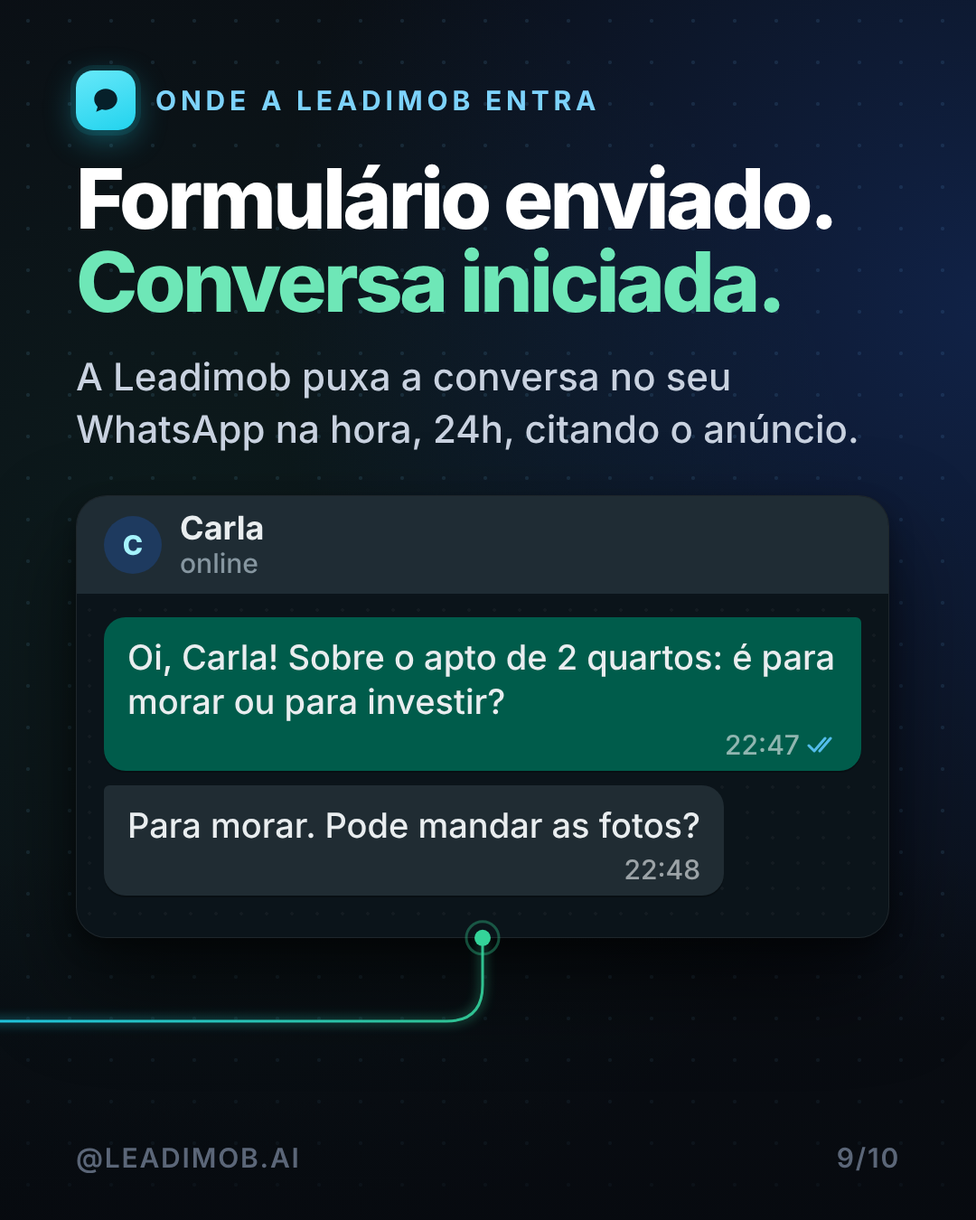
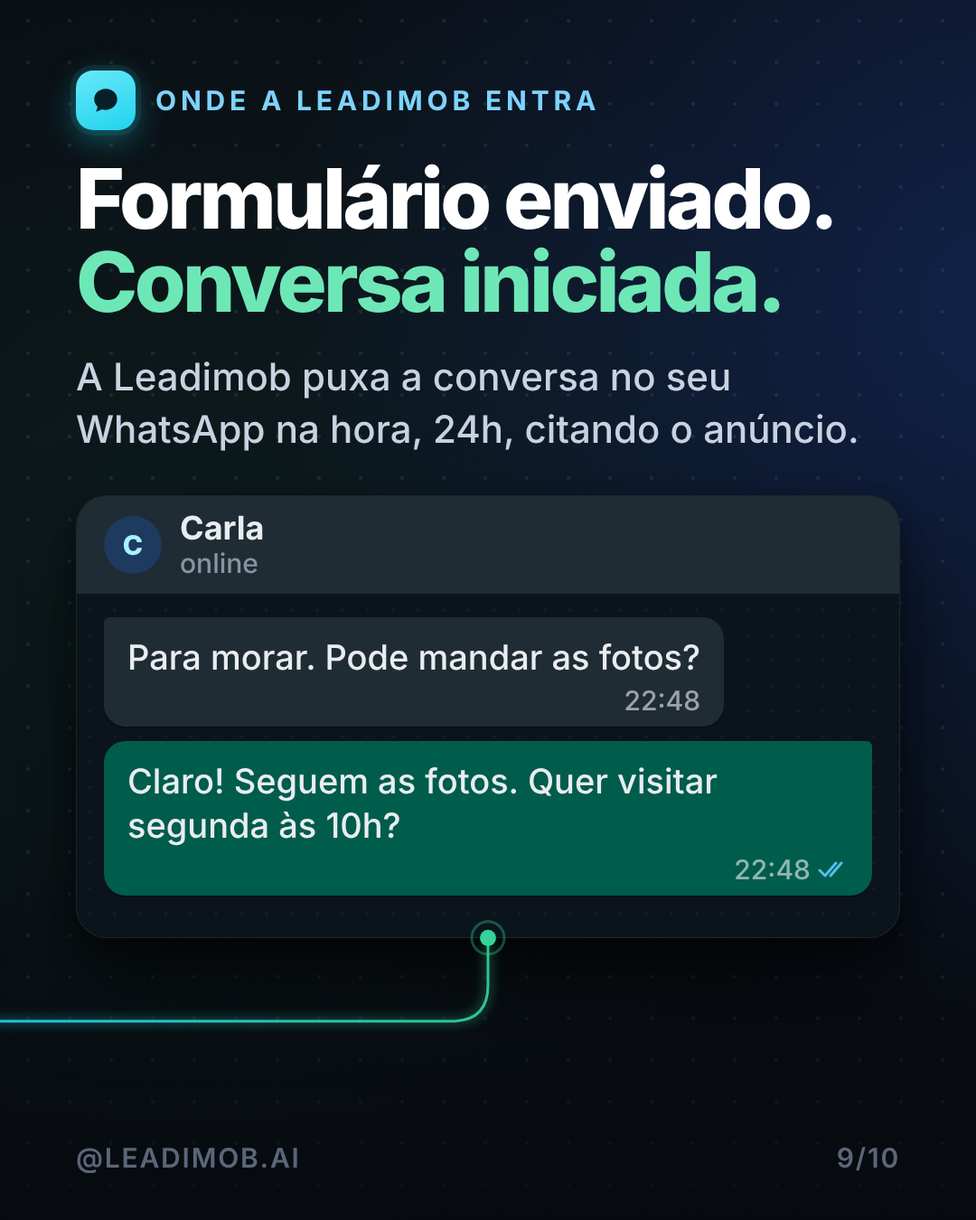
10/10: carrossel rodada 3 (em crítica, sem aprovação)
Claude-Session: https://claude.ai/code/session_016a8cwUDTswJAyhXi9pdNNX

Changed region(s): [[0.0917, 0.4978, 0.9167, 0.84], [0.8861, 0.4356, 0.9167, 0.4978]]

diff --git a/instagram/2026-10-10/src/c1-index.html b/instagram/2026-10-10/src/c1-index.html
@@ -58,26 +58,34 @@ body{background:#0A0E14;width:10800px;height:1350px;overflow:hidden;font-family:
 .art{margin-top:60px}
 .bt{font-size:30px}
 /* formulário do anúncio */
-.form{width:600px;padding:34px 36px 36px}
+.form{width:912px;padding:34px 36px 36px}
 .form .lab{margin-bottom:26px}
-.fld{border:2px solid rgba(255,255,255,.12);background:rgba(255,255,255,.03);border-radius:18px;padding:16px 24px;margin-bottom:16px;display:flex;justify-content:space-between;align-items:center}
+.fld{border:2px solid rgba(255,255,255,.12);background:rgba(255,255,255,.03);border-radius:18px;padding:22px 26px;margin-bottom:16px;display:flex;justify-content:space-between;align-items:center}
 .fld b{font:600 30px/1 IN;color:#7C8799;letter-spacing:.02em}
-.fld span{font:600 34px/1 IN;color:#E2E8F0}
-.btn{margin-top:22px;height:84px;border-radius:18px;background:#2563EB;display:flex;align-items:center;justify-content:center;gap:14px;font:700 36px/1 IN;color:#fff;box-shadow:0 14px 34px rgba(37,99,235,.45)}
+.fld span{font:600 40px/1 IN;color:#E2E8F0}
+.btn{margin-top:22px;height:96px;border-radius:18px;background:#2563EB;display:flex;align-items:center;justify-content:center;gap:14px;font:700 36px/1 IN;color:#fff;box-shadow:0 14px 34px rgba(37,99,235,.45)}
+/* progresso da checklist (slides 4–8) */
+.prog{margin-left:auto;display:flex;gap:10px}
+.prog i{width:30px;height:30px;border-radius:9px;border:2.5px solid rgba(125,211,252,.28);display:flex;align-items:center;justify-content:center}
+.prog i.ok{background:rgba(34,211,238,.22);border-color:rgba(34,211,238,.6)}
+.prog i.on{background:#22D3EE;border-color:#22D3EE;box-shadow:0 0 16px rgba(34,211,238,.6)}
+.wd{display:inline-flex;align-items:center;gap:16px;padding:24px 32px;border-radius:24px;font:700 42px/1 IN;color:#E2E8F0}
+.wd s{text-decoration:none;width:50px;height:50px;border-radius:12px;border:2.5px solid rgba(125,211,252,.55);display:flex;align-items:center;justify-content:center;font:800 30px/1 IN;color:#7DD3FC}
+.strk{text-decoration:line-through;text-decoration-thickness:3px;text-decoration-color:#8794A8;color:#8794A8}
 /* nó de checagem na linha */
-.gate{position:absolute;top:1107px;transform:translateX(-50%);display:flex;flex-direction:column;align-items:center;gap:14px;z-index:6}
-.gate i{width:48px;height:48px;border-radius:14px;background:#0A0E14;border:3px solid #22D3EE;box-shadow:0 0 24px rgba(34,211,238,.45);display:flex;align-items:center;justify-content:center}
+.gate{position:absolute;top:1104px;transform:translateX(-50%);display:flex;flex-direction:column;align-items:center;gap:14px;z-index:6}
+.gate i{width:52px;height:52px;border-radius:15px;background:#22D3EE;border:3px solid #22D3EE;box-shadow:0 0 0 7px rgba(34,211,238,.12),0 0 26px rgba(34,211,238,.55);display:flex;align-items:center;justify-content:center}
 .gate span{font:700 30px/1 IN;letter-spacing:.14em;color:#7DD3FC}
 .stop{position:absolute;top:1115px;transform:translateX(-50%);z-index:6;width:32px;height:32px;border-radius:50%;background:#0A0E14;border:4px solid #F59E0B;box-shadow:0 0 18px rgba(245,158,11,.4)}
 /* central de leads (dor) */
-.tbl{width:860px;padding:30px 34px 14px}
+.tbl{width:912px;padding:30px 34px 14px}
 .row{display:flex;align-items:center;justify-content:space-between;padding:22px 0;border-top:1px solid rgba(255,255,255,.08);font:600 36px/1 IN;color:#C9D2E0}
 .row small{font:500 30px/1 IN;color:#7C8799;margin-left:18px}
 /* notificação */
-.ntf{width:880px;padding:30px 34px;display:flex;gap:28px;align-items:center}
+.ntf{width:912px;padding:30px 34px;display:flex;gap:28px;align-items:center}
 .ico{width:96px;height:96px;border-radius:24px;background:linear-gradient(160deg,#67E8F9,#22D3EE);display:flex;align-items:center;justify-content:center;flex:none;box-shadow:0 10px 30px rgba(34,211,238,.3)}
 /* bolha com citação do anúncio */
-.wa.one{padding:34px 34px 38px;width:900px}
+.wa.one{padding:34px 34px 38px;width:912px}
 .wa.one .bub{font-size:42px;line-height:1.28;padding:16px 18px 16px;max-width:820px}
 .quote{border-left:6px solid #22D3EE;background:rgba(0,0,0,.22);border-radius:12px;padding:14px 20px;margin-bottom:16px;display:flex;align-items:center;gap:18px}
 .quote b{display:block;font:700 30px/1.1 IN;color:#7DD3FC}
@@ -85,7 +93,7 @@ body{background:#0A0E14;width:10800px;height:1350px;overflow:hidden;font-family:
 .thumb{width:84px;height:84px;border-radius:10px;background:url(property.jpg) center/cover;flex:none}
 .msgt{padding:0 10px}
 /* régua do dia */
-.day24{width:900px;padding:40px 40px 34px}
+.day24{width:912px;padding:40px 40px 34px}
 .bar{position:relative;height:26px;border-radius:13px;background:rgba(255,255,255,.07);margin:120px 0 22px}
 .biz{position:absolute;top:0;bottom:0;border-radius:13px;background:rgba(125,211,252,.22);border:2px solid rgba(125,211,252,.35)}
 .tks{position:relative;height:30px;font:600 30px/1 IN;color:#7C8799}
@@ -95,24 +103,24 @@ body{background:#0A0E14;width:10800px;height:1350px;overflow:hidden;font-family:
 .pin i{width:3px;height:30px;background:#22D3EE}
 .pin u{width:30px;height:30px;border-radius:50%;background:#22D3EE;box-shadow:0 0 0 6px rgba(34,211,238,.2),0 0 22px rgba(34,211,238,.6);margin-top:-2px}
 /* perguntas */
-.qs{display:grid;grid-template-columns:1fr 1fr;gap:20px;width:900px}
+.qs{display:grid;grid-template-columns:1fr 1fr;gap:20px;width:912px}
 .q{display:flex;align-items:center;gap:16px;padding:28px 28px;border-radius:24px;font:600 36px/1.1 IN;color:#E2E8F0}
 .q svg{flex:none}
 .after{margin-top:26px;display:flex;align-items:center;gap:14px;font:600 32px/1 IN;color:#7C8799}
 /* ficha do lead */
-.crm{width:860px;padding:34px 38px 30px}
+.crm{width:912px;padding:34px 38px 30px}
 .crm .hd{display:flex;align-items:center;gap:22px;padding-bottom:26px}
 .av{width:76px;height:76px;border-radius:50%;background:#1E3A5F;display:flex;align-items:center;justify-content:center;font:800 34px/1 IN;color:#A5F3FC;flex:none}
 .kv{display:flex;justify-content:space-between;align-items:center;padding:24px 0;border-top:1px solid rgba(255,255,255,.08)}
 .kv b{font:600 30px/1 IN;letter-spacing:.12em;text-transform:uppercase;color:#7C8799}
 .kv span{font:700 38px/1 IN;color:#fff}
 /* checklist resumo */
-.cl{width:900px;padding:22px 38px}
+.cl{width:912px;padding:22px 38px}
 .ci{display:flex;align-items:center;gap:24px;padding:17px 0;border-top:1px solid rgba(255,255,255,.08);font:600 36px/1.15 IN;color:#E2E8F0}
 .ci:first-child{border-top:0}
 .ci .n{width:50px;height:50px;border-radius:14px;border:3px solid rgba(125,211,252,.55);display:flex;align-items:center;justify-content:center;font:800 30px/1 IN;color:#7DD3FC;flex:none}
 /* chat final */
-.chat{width:900px;padding:0 0 30px}
+.chat{width:912px;padding:0 0 30px}
 .chat .top{display:flex;align-items:center;gap:20px;padding:16px 30px;background:#1F2C34;margin-bottom:26px}
 .chat .top b{display:block;font:700 36px/1.1 IN;color:#E9EDEF}
 .chat .top em{display:block;font:500 30px/1.2 IN;color:#8696A0;font-style:normal}
@@ -128,32 +136,32 @@ body{background:#0A0E14;width:10800px;height:1350px;overflow:hidden;font-family:
 <div class="vig"></div>
 <svg id="fio" class="abs" width="10800" height="1350" style="left:0;top:0;z-index:6;pointer-events:none"></svg>
 
-<!-- 1 capa -->
+<!-- 1 capa: o formulário da Carla em cima, título embaixo -->
 <div class="sl" style="left:0;justify-content:flex-start;padding-top:118px">
  <div style="display:flex;justify-content:space-between;align-items:center">
-  <div class="ttl" style="margin:0"><div class="num"><svg width="32" height="32" viewBox="0 0 24 24" fill="none" stroke="#06202A" stroke-width="2.6" stroke-linecap="round" stroke-linejoin="round"><path d="M4 6h16M7 12h10M10 18h4"/></svg></div><div class="kick">Método</div></div>
+  <div class="ttl" style="margin:0"><div class="num"><svg width="32" height="32" viewBox="0 0 24 24" fill="none" stroke="#06202A" stroke-width="2.6" stroke-linecap="round" stroke-linejoin="round"><path d="M4 6h16M7 12h10M10 18h4"/></svg></div><div class="kick">Teste</div></div>
   <span class="chip cy"><svg width="24" height="28" viewBox="0 0 20 24"><path d="M3 2h14v20l-7-5.500L3 22z" fill="#A5F3FC"/></svg>Salve este post</span>
  </div>
- <div class="h1" style="margin-top:64px;font-size:100px;line-height:1.0">O lead preencheu.<br>Alguém<br><span class="hl">respondeu?</span></div>
- <div class="p" style="margin-top:34px;font-size:42px;font-weight:500;color:#E2E8F0">5 checagens para ver onde a sua captação de leads trava.</div>
- <div class="card form" id="a-form" style="margin-top:52px">
+ <div class="card form" id="a-form" style="margin-top:56px">
   <div class="lab">Formulário do anúncio</div>
   <div class="fld"><b>Nome</b><span>Carla</span></div>
   <div class="btn">Enviar <svg width="30" height="30" viewBox="0 0 24 24"><path d="M3 12 L21 3 L14 21 L11 13 Z" fill="#fff"/></svg></div>
  </div>
+ <div class="h1" style="margin-top:64px;font-size:104px;line-height:1.0">O lead preencheu.<br>Alguém <span style="color:transparent;-webkit-text-stroke:3px #7DD3FC">respondeu?</span></div>
+ <div class="p" style="margin-top:32px;font-size:42px;color:#E2E8F0">5 checagens para ver onde o lead do formulário trava.</div>
  <div class="foot"><span>@LEADIMOB.AI</span><span style="color:#7DD3FC">ARRASTE →</span></div></div>
 
 <!-- 2 problema: caminho travado (formulário → planilha) -->
-<div class="sl" style="left:1080px">
+<div class="sl" style="left:1080px;padding-top:236px">
  <div class="ttl"><div class="num">!</div><div class="kick">O problema</div></div>
  <div class="h2">O lead preencheu.<br><span style="color:#8794A8">E parou na planilha.</span></div>
  <div class="p">Ninguém foi avisado. Ninguém escreveu.</div>
  <div class="art" style="display:flex;align-items:center;width:912px">
-  <div class="card" style="width:270px;padding:30px 26px;text-align:center">
+  <div class="card" style="width:300px;padding:30px 26px;text-align:center">
    <svg width="54" height="54" viewBox="0 0 24 24" fill="none" stroke="#7DD3FC" stroke-width="1.8" stroke-linejoin="round" stroke-linecap="round"><rect x="5" y="3" width="14" height="18" rx="2.5"/><path d="M8.500 8h7M8.500 12h7M8.500 16h4"/></svg>
-   <div style="font:700 32px/1.1 IN;margin-top:14px">Formulário</div><div style="font:500 30px/1.2 IN;color:#7C8799;margin-top:8px">sáb. 22:47</div></div>
+   <div style="font:700 34px/1.1 IN;margin-top:14px">Formulário</div><div style="font:500 30px/1.2 IN;color:#7C8799;margin-top:8px">sáb. 22:47</div></div>
   <div style="flex:1;height:3px;background:#22D3EE;opacity:.7;position:relative"><span style="position:absolute;right:-2px;top:-9px;border-left:16px solid #22D3EE;border-top:10px solid transparent;border-bottom:10px solid transparent"></span></div>
-  <div class="card" style="width:480px;padding:26px 28px 14px">
+  <div class="card" style="width:500px;padding:26px 28px 14px">
    <div class="lab" style="margin-bottom:14px"><svg width="30" height="30" viewBox="0 0 24 24" fill="none" stroke="#7C8799" stroke-width="2"><rect x="3" y="4" width="18" height="16" rx="2"/><path d="M3 10h18M9 4v16"/></svg>Planilha</div>
    <div class="row"><span>Carla</span><span class="chip nt" style="font-size:30px;padding:12px 20px">Sem contato</span></div>
   </div>
@@ -165,43 +173,40 @@ body{background:#0A0E14;width:10800px;height:1350px;overflow:hidden;font-family:
 <div class="sl" style="left:2160px">
  <div class="ttl"><div class="num"><svg width="32" height="32" viewBox="0 0 24 24" fill="none" stroke="#06202A" stroke-width="2.6" stroke-linecap="round" stroke-linejoin="round"><path d="M4 6h16M7 12h10M10 18h4"/></svg></div><div class="kick">O teste</div></div>
  <div class="h2">Preencha o seu próprio <span class="hl">formulário</span>.</div>
- <div class="p">Depois, siga as 5 checagens.</div>
- <div class="card cl art">
-  <div class="ci"><span class="n">1</span>Chega a alguém na hora?</div>
-  <div class="ci"><span class="n">2</span>WhatsApp citando o anúncio?</div>
-  <div class="ci"><span class="n">3</span>Resposta fora do horário?</div>
-  <div class="ci"><span class="n">4</span>Perguntas antes dos imóveis?</div>
-  <div class="ci"><span class="n">5</span>Dono e próximo passo?</div>
+ <div class="p">Depois, confira as 5 checagens.</div>
+ <div class="art" style="width:912px;display:flex;flex-wrap:wrap;gap:18px">
+  <span class="wd nt"><s>1</s>Aviso</span><span class="wd nt"><s>2</s>Anúncio</span><span class="wd nt"><s>3</s>22h</span><span class="wd nt"><s>4</s>Perguntas</span><span class="wd nt"><s>5</s>Dono</span>
  </div>
  <div class="foot"><span>@LEADIMOB.AI</span><span>3/10</span></div></div>
 
 <!-- 4 checagem 1 -->
-<div class="sl" style="left:3240px;padding-top:216px"><div class="ghost">01</div>
- <div class="ttl"><div class="num">01</div><div class="kick">Checagem 1 · entrada</div></div>
+<div class="sl" style="left:3240px;padding-top:216px">
+ <div class="ttl" style="width:912px"><div class="num">01</div><div class="kick">Checagem 1 · aviso</div><div class="prog"><i class="on"><svg width="18" height="18" viewBox="0 0 24 24"><path d="M5 12.500l4.500 4.500L19 7" stroke="#06202A" stroke-width="4" fill="none" stroke-linecap="round" stroke-linejoin="round"/></svg></i><i></i><i></i><i></i><i></i></div></div>
  <div class="h2">O lead chega a <span class="hl">alguém</span> na hora?</div>
- <div class="p">Formulário enviado vira aviso, não arquivo para baixar depois.</div>
+ <div class="p">Formulário enviado vira aviso no celular, não planilha para baixar depois.</div>
  <div class="card ntf art">
   <div class="ico"><svg width="48" height="48" viewBox="0 0 24 24" fill="none" stroke="#06202A" stroke-width="2.4" stroke-linecap="round" stroke-linejoin="round"><path d="M6 9a6 6 0 0 1 12 0c0 6 2.500 7.500 2.500 7.500h-17S6 15 6 9z"/><path d="M10 20a2.200 2.200 0 0 0 4 0"/></svg></div>
   <div style="flex:1"><div style="display:flex;justify-content:space-between;font:700 30px/1 IN;letter-spacing:.12em;color:#7DD3FC;text-transform:uppercase"><span>Novo lead</span><span style="color:#7C8799;letter-spacing:.04em;text-transform:none">agora</span></div>
   <div style="font:600 38px/1.2 IN;color:#fff;margin-top:14px">Carla · apto de 2 quartos</div></div>
  </div>
  <div class="foot"><span>@LEADIMOB.AI</span><span>4/10</span></div></div>
-<div class="gate" style="left:3780px"><i><svg width="26" height="26" viewBox="0 0 24 24"><path d="M5 12.500l4.500 4.500L19 7" stroke="#7DD3FC" stroke-width="3.2" fill="none" stroke-linecap="round" stroke-linejoin="round"/></svg></i><span>1</span></div>
+<div class="gate" style="left:3780px"><i><svg width="28" height="28" viewBox="0 0 24 24"><path d="M5 12.500l4.500 4.500L19 7" stroke="#06202A" stroke-width="3.4" fill="none" stroke-linecap="round" stroke-linejoin="round"/></svg></i></div>
 
 <!-- 5 checagem 2 -->
-<div class="sl" style="left:4320px"><div class="ghost">02</div>
- <div class="ttl"><div class="num">02</div><div class="kick">Checagem 2 · primeira mensagem</div></div>
- <div class="h2" style="font-size:80px">A primeira mensagem vai pelo <span class="hl">WhatsApp</span> e cita o anúncio?</div>
+<div class="sl" style="left:4320px">
+ <div class="ttl" style="width:912px"><div class="num">02</div><div class="kick">Checagem 2 · anúncio</div><div class="prog"><i class="ok"><svg width="18" height="18" viewBox="0 0 24 24"><path d="M5 12.500l4.500 4.500L19 7" stroke="#A5F3FC" stroke-width="4" fill="none" stroke-linecap="round" stroke-linejoin="round"/></svg></i><i class="on"><svg width="18" height="18" viewBox="0 0 24 24"><path d="M5 12.500l4.500 4.500L19 7" stroke="#06202A" stroke-width="4" fill="none" stroke-linecap="round" stroke-linejoin="round"/></svg></i><i></i><i></i><i></i></div></div>
+ <div class="h2">A primeira mensagem cita o <span class="hl">anúncio</span>?</div>
  <div class="p">O cliente precisa reconhecer o imóvel.</div>
- <div class="wa one art">
-  <div class="bub bout" style="padding:22px 28px 18px"><div>Oi, Carla! Sobre o apto de 2 quartos do anúncio: é para morar ou para investir?</div><div class="bt"><svg class="tk" viewBox="0 0 34 22"><path d="M2 12l6 6L20 4M14 18l12-14" stroke="#53BDEB" stroke-width="3" fill="none" stroke-linecap="round" stroke-linejoin="round"/></svg></div></div>
+ <div class="wa one art" style="padding:30px 30px 32px">
+  <div class="bub bout" style="padding:20px 26px;margin-bottom:20px;background:#1F2C34"><span class="strk">Olá, recebemos seu cadastro.</span></div>
+  <div class="bub bout" style="padding:20px 26px 16px">Oi, Carla! Sobre o apto de 2 quartos do anúncio: é para morar ou para investir?</div>
  </div>
  <div class="foot"><span>@LEADIMOB.AI</span><span>5/10</span></div></div>
-<div class="gate" style="left:4860px"><i><svg width="26" height="26" viewBox="0 0 24 24"><path d="M5 12.500l4.500 4.500L19 7" stroke="#7DD3FC" stroke-width="3.2" fill="none" stroke-linecap="round" stroke-linejoin="round"/></svg></i><span>2</span></div>
+<div class="gate" style="left:4860px"><i><svg width="28" height="28" viewBox="0 0 24 24"><path d="M5 12.500l4.500 4.500L19 7" stroke="#06202A" stroke-width="3.4" fill="none" stroke-linecap="round" stroke-linejoin="round"/></svg></i></div>
 
 <!-- 6 checagem 3 -->
-<div class="sl" style="left:5400px"><div class="ghost">03</div>
- <div class="ttl"><div class="num">03</div><div class="kick">Checagem 3 · fora do horário</div></div>
+<div class="sl" style="left:5400px">
+ <div class="ttl" style="width:912px"><div class="num">03</div><div class="kick">Checagem 3 · horário</div><div class="prog"><i class="ok"><svg width="18" height="18" viewBox="0 0 24 24"><path d="M5 12.500l4.500 4.500L19 7" stroke="#A5F3FC" stroke-width="4" fill="none" stroke-linecap="round" stroke-linejoin="round"/></svg></i><i class="ok"><svg width="18" height="18" viewBox="0 0 24 24"><path d="M5 12.500l4.500 4.500L19 7" stroke="#A5F3FC" stroke-width="4" fill="none" stroke-linecap="round" stroke-linejoin="round"/></svg></i><i class="on"><svg width="18" height="18" viewBox="0 0 24 24"><path d="M5 12.500l4.500 4.500L19 7" stroke="#06202A" stroke-width="4" fill="none" stroke-linecap="round" stroke-linejoin="round"/></svg></i><i></i><i></i></div></div>
  <div class="h2">Alguém responde às <span class="hl">22h</span>?</div>
  <div class="p">O formulário chega quando o cliente tem tempo: à noite, no fim de semana.</div>
  <div class="card day24 art">
@@ -211,12 +216,12 @@ body{background:#0A0E14;width:10800px;height:1350px;overflow:hidden;font-family:
   <div class="tks"><span style="left:2%">0h</span><span style="left:37.5%">9h</span><span style="left:75%">18h</span><span style="left:97%">24h</span></div>
  </div>
  <div class="foot"><span>@LEADIMOB.AI</span><span>6/10</span></div></div>
-<div class="gate" style="left:5940px"><i><svg width="26" height="26" viewBox="0 0 24 24"><path d="M5 12.500l4.500 4.500L19 7" stroke="#7DD3FC" stroke-width="3.2" fill="none" stroke-linecap="round" stroke-linejoin="round"/></svg></i><span>3</span></div>
+<div class="gate" style="left:5940px"><i><svg width="28" height="28" viewBox="0 0 24 24"><path d="M5 12.500l4.500 4.500L19 7" stroke="#06202A" stroke-width="3.4" fill="none" stroke-linecap="round" stroke-linejoin="round"/></svg></i></div>
 
 <!-- 7 checagem 4 -->
-<div class="sl" style="left:6480px"><div class="ghost">04</div>
- <div class="ttl"><div class="num">04</div><div class="kick">Checagem 4 · qualificação</div></div>
- <div class="h2">Pergunta <span class="hl">antes</span> de mandar imóvel?</div>
+<div class="sl" style="left:6480px;padding-top:236px">
+ <div class="ttl" style="width:912px"><div class="num">04</div><div class="kick">Checagem 4 · perguntas</div><div class="prog"><i class="ok"><svg width="18" height="18" viewBox="0 0 24 24"><path d="M5 12.500l4.500 4.500L19 7" stroke="#A5F3FC" stroke-width="4" fill="none" stroke-linecap="round" stroke-linejoin="round"/></svg></i><i class="ok"><svg width="18" height="18" viewBox="0 0 24 24"><path d="M5 12.500l4.500 4.500L19 7" stroke="#A5F3FC" stroke-width="4" fill="none" stroke-linecap="round" stroke-linejoin="round"/></svg></i><i class="ok"><svg width="18" height="18" viewBox="0 0 24 24"><path d="M5 12.500l4.500 4.500L19 7" stroke="#A5F3FC" stroke-width="4" fill="none" stroke-linecap="round" stroke-linejoin="round"/></svg></i><i class="on"><svg width="18" height="18" viewBox="0 0 24 24"><path d="M5 12.500l4.500 4.500L19 7" stroke="#06202A" stroke-width="4" fill="none" stroke-linecap="round" stroke-linejoin="round"/></svg></i><i></i></div></div>
+ <div class="h2">Alguém pergunta <span class="hl">antes</span> de mandar imóveis?</div>
  <div class="p">As respostas dizem o que vale enviar.</div>
  <div class="qs art">
   <div class="q nt"><svg width="34" height="34" viewBox="0 0 24 24"><path d="M5 12.500l4.500 4.500L19 7" stroke="#22D3EE" stroke-width="3" fill="none" stroke-linecap="round" stroke-linejoin="round"/></svg>Morar ou investir?</div>
@@ -225,20 +230,20 @@ body{background:#0A0E14;width:10800px;height:1350px;overflow:hidden;font-family:
   <div class="q nt"><svg width="34" height="34" viewBox="0 0 24 24"><path d="M5 12.500l4.500 4.500L19 7" stroke="#22D3EE" stroke-width="3" fill="none" stroke-linecap="round" stroke-linejoin="round"/></svg>Para quando?</div>
  </div>
  <div class="foot"><span>@LEADIMOB.AI</span><span>7/10</span></div></div>
-<div class="gate" style="left:7020px"><i><svg width="26" height="26" viewBox="0 0 24 24"><path d="M5 12.500l4.500 4.500L19 7" stroke="#7DD3FC" stroke-width="3.2" fill="none" stroke-linecap="round" stroke-linejoin="round"/></svg></i><span>4</span></div>
+<div class="gate" style="left:7020px"><i><svg width="28" height="28" viewBox="0 0 24 24"><path d="M5 12.500l4.500 4.500L19 7" stroke="#06202A" stroke-width="3.4" fill="none" stroke-linecap="round" stroke-linejoin="round"/></svg></i></div>
 
 <!-- 8 checagem 5 -->
-<div class="sl" style="left:7560px"><div class="ghost">05</div>
- <div class="ttl"><div class="num">05</div><div class="kick">Dono e próximo passo</div></div>
- <div class="h2">Cada lead tem <span class="hl">dono e próximo passo</span>?</div>
+<div class="sl" style="left:7560px">
+ <div class="ttl" style="width:912px"><div class="num">05</div><div class="kick">Checagem 5 · distribuição</div><div class="prog"><i class="ok"><svg width="18" height="18" viewBox="0 0 24 24"><path d="M5 12.500l4.500 4.500L19 7" stroke="#A5F3FC" stroke-width="4" fill="none" stroke-linecap="round" stroke-linejoin="round"/></svg></i><i class="ok"><svg width="18" height="18" viewBox="0 0 24 24"><path d="M5 12.500l4.500 4.500L19 7" stroke="#A5F3FC" stroke-width="4" fill="none" stroke-linecap="round" stroke-linejoin="round"/></svg></i><i class="ok"><svg width="18" height="18" viewBox="0 0 24 24"><path d="M5 12.500l4.500 4.500L19 7" stroke="#A5F3FC" stroke-width="4" fill="none" stroke-linecap="round" stroke-linejoin="round"/></svg></i><i class="ok"><svg width="18" height="18" viewBox="0 0 24 24"><path d="M5 12.500l4.500 4.500L19 7" stroke="#A5F3FC" stroke-width="4" fill="none" stroke-linecap="round" stroke-linejoin="round"/></svg></i><i class="on"><svg width="18" height="18" viewBox="0 0 24 24"><path d="M5 12.500l4.500 4.500L19 7" stroke="#06202A" stroke-width="4" fill="none" stroke-linecap="round" stroke-linejoin="round"/></svg></i></div></div>
+ <div class="h2">Cada lead tem <span class="hl">dono</span> e próximo passo?</div>
  <div class="p">Sem isso, ele volta para a planilha.</div>
  <div class="card crm art">
   <div class="hd"><div class="av">C</div><div><div style="font:700 38px/1.1 IN">Carla</div><div style="font:500 30px/1.3 IN;color:#7C8799">Apto 2 quartos · Centro</div></div></div>
   <div class="kv"><b>Dono</b><span>Ana, corretora</span></div>
-  <div class="kv"><b>Próximo passo</b><span class="chip cy" style="font-size:32px">Visita seg. 10h</span></div>
+  <div class="kv"><b>Próximo passo</b><span class="chip nt" style="font-size:32px">Visita seg. 10h</span></div>
  </div>
  <div class="foot"><span>@LEADIMOB.AI</span><span>8/10</span></div></div>
-<div class="gate" style="left:8100px"><i><svg width="26" height="26" viewBox="0 0 24 24"><path d="M5 12.500l4.500 4.500L19 7" stroke="#7DD3FC" stroke-width="3.2" fill="none" stroke-linecap="round" stroke-linejoin="round"/></svg></i><span>5</span></div>
+<div class="gate" style="left:8100px"><i><svg width="28" height="28" viewBox="0 0 24 24"><path d="M5 12.500l4.500 4.500L19 7" stroke="#06202A" stroke-width="3.4" fill="none" stroke-linecap="round" stroke-linejoin="round"/></svg></i></div>
 
 <!-- 9 produto -->
 <div class="sl" style="left:8640px">
@@ -247,41 +252,37 @@ body{background:#0A0E14;width:10800px;height:1350px;overflow:hidden;font-family:
  <div class="p">A Leadimob puxa a conversa no seu WhatsApp na hora, 24h, citando o anúncio.</div>
  <div class="wa chat art" id="a-chat" style="margin-top:44px">
   <div class="top"><div class="av" style="width:64px;height:64px;font-size:30px">C</div><div><b>Carla</b><em>online</em></div></div>
-  <div class="bub bout">Oi, Carla! Sobre o apto de 2 quartos: é para morar ou para investir?<div class="bt">22:47 <svg class="tk" viewBox="0 0 34 22"><path d="M2 12l6 6L20 4M14 18l12-14" stroke="#53BDEB" stroke-width="3" fill="none" stroke-linecap="round" stroke-linejoin="round"/></svg></div></div>
   <div class="bub bin">Para morar. Pode mandar as fotos?<div class="bt">22:48</div></div>
+  <div class="bub bout">Claro! Seguem as fotos. Quer visitar segunda às 10h?<div class="bt">22:48 <svg class="tk" viewBox="0 0 34 22"><path d="M2 12l6 6L20 4M14 18l12-14" stroke="#53BDEB" stroke-width="3" fill="none" stroke-linecap="round" stroke-linejoin="round"/></svg></div></div>
  </div>
  <div class="foot"><span>@LEADIMOB.AI</span><span>9/10</span></div></div>
 
-<!-- 10 CTA -->
-<div class="sl" style="left:9720px;padding-bottom:170px">
- <div class="ttl"><div class="num"><svg width="32" height="32" viewBox="0 0 24 24"><path d="M5 12.500l4.500 4.500L19 7" stroke="#06202A" stroke-width="3" fill="none" stroke-linecap="round" stroke-linejoin="round"/></svg></div><div class="kick">Sua vez</div></div>
- <div class="h2">Onde a sua captação de leads <span class="hl">trava</span>?</div>
- <div style="margin-top:56px;height:132px;border-radius:66px;background:#141B28;border:2px solid rgba(125,211,252,.45);box-shadow:0 0 0 8px rgba(34,211,238,.06),0 30px 70px rgba(0,0,0,.55);display:flex;align-items:center;padding:0 22px 0 40px;gap:16px;font:600 44px IN">
+<!-- 10 CTA: composição centrada -->
+<div class="sl" style="left:9720px;padding-bottom:170px;align-items:center;text-align:center">
+ <div style="width:330px;height:104px;border-radius:24px;background:#F3F7FB;display:flex;align-items:center;justify-content:center;box-shadow:0 20px 44px rgba(0,0,0,.5)"><img src="logo.png" style="width:260px"></div>
+ <div class="h2" style="margin-top:64px">Onde o lead do formulário <span class="hl">trava</span>?</div>
+ <div style="margin-top:56px;width:912px;height:132px;border-radius:66px;background:#141B28;border:2px solid rgba(125,211,252,.45);box-shadow:0 0 0 8px rgba(34,211,238,.06),0 30px 70px rgba(0,0,0,.55);display:flex;align-items:center;padding:0 22px 0 40px;gap:16px;font:600 44px IN">
   <span style="color:#7C8799">Comente</span><span style="font-weight:900;letter-spacing:.02em">CHECAGEM</span><span style="width:4px;height:52px;background:#22D3EE;border-radius:2px"></span>
   <span style="margin-left:auto;width:92px;height:92px;border-radius:50%;background:#2563EB;display:flex;align-items:center;justify-content:center;box-shadow:0 10px 30px rgba(37,99,235,.55)"><svg width="42" height="42" viewBox="0 0 24 24"><path d="M3 12 L21 3 L14 21 L11 13 Z" fill="#fff"/></svg></span>
  </div>
- <div class="p" style="margin-top:34px">e conte qual delas falha hoje na sua imobiliária.</div>
- <div style="margin-top:56px;display:flex;align-items:center;gap:22px">
-  <div style="width:300px;height:96px;border-radius:22px;background:#F3F7FB;display:flex;align-items:center;justify-content:center;box-shadow:0 20px 44px rgba(0,0,0,.5)"><img src="logo.png" style="width:240px"></div>
-  <div style="font:700 34px/1 IN;color:#7DD3FC">@leadimob.ai</div>
- </div>
- <div style="margin-top:30px;font:600 32px/1.3 IN;color:#7C8799">Solicite uma demonstração · link na bio</div>
+ <div class="p" style="margin-top:34px">e conte qual checagem falha hoje na sua imobiliária.</div>
+ <div style="margin-top:44px;font:600 32px/1.3 IN;color:#7DD3FC">Solicite uma demonstração · link na bio</div>
  <div class="foot"><span>@LEADIMOB.AI</span><span>10/10</span></div></div>
 </div>
 <script>
-// O fio: sai do formulário (capa), desce até a linha e trava no nó âmbar do slide 2 (planilha);
+// O fio: sai da borda direita do formulário (capa), desce até a linha e trava no nó âmbar do slide 2 (planilha);
 // reconecta no slide 3 (o teste), passa pelas 5 checagens (slides 4–8) e no slide 9 sobe, verde, e entra na conversa.
 function fio(){
  const S=document.getElementById('fio'),st=document.getElementById('strip').getBoundingClientRect();
  const r=id=>{const b=document.getElementById(id).getBoundingClientRect();return{x:b.left-st.left,y:b.top-st.top,w:b.width,h:b.height}};
  const Y=1130,f=r('a-form'),c=r('a-chat'),R=40;
- const fx=f.x+f.w/2,fy=f.y+f.h, cx=c.x+c.w/2, cy=c.y+c.h;
+ const fx=f.x+f.w,fy=f.y+f.h/2, cx=c.x+c.w/2, cy=c.y+c.h;
  const ns='http://www.w3.org/2000/svg';
  S.innerHTML=`<defs>
  <linearGradient id="g1" gradientUnits="userSpaceOnUse" x1="0" x2="1840" y1="0" y2="0"><stop offset="0" stop-color="#22D3EE"/><stop offset="1" stop-color="#22D3EE"/></linearGradient>
  <linearGradient id="g2" gradientUnits="userSpaceOnUse" x1="2160" x2="9200" y1="0" y2="0"><stop offset="0" stop-color="#22D3EE" stop-opacity="0"/><stop offset=".06" stop-color="#22D3EE" stop-opacity=".9"/><stop offset=".92" stop-color="#22D3EE" stop-opacity=".9"/><stop offset="1" stop-color="#34D399" stop-opacity=".9"/></linearGradient>
  <filter id="gl" x="-5%" y="-50%" width="110%" height="200%"><feGaussianBlur stdDeviation="6"/></filter></defs>`;
- const d1=`M${fx},${fy} V${Y-R} Q${fx},${Y} ${fx+R},${Y} H1824`;
+ const X1=1040,d1=`M${fx},${fy} H${X1-R} Q${X1},${fy} ${X1},${fy+R} V${Y-R} Q${X1},${Y} ${X1+R},${Y} H1824`;
  const d2=`M2160,${Y} H${cx-R} Q${cx},${Y} ${cx},${Y-R} V${cy}`;
  for(const[d,g,dash]of[[d1,'g1',''],[d2,'g2','']]){
   S.insertAdjacentHTML('beforeend',`<path d="${d}" fill="none" stroke="url(#${g})" stroke-width="8" opacity=".35" filter="url(#gl)"/><path d="${d}" fill="none" stroke="url(#${g})" stroke-width="3" stroke-linecap="round"/>`)}

diff --git a/instagram/2026-10-10/carrossel/carrossel-editor.html b/instagram/2026-10-10/carrossel/carrossel-editor.html
@@ -312,7 +312,7 @@ input[type=range]{width:100%;accent-color:#6C5CE7;height:18px;cursor:pointer;}
     </div>
   </div>
 </div>
-<script id="deck-data" type="application/json">{"kit": "tech", "formato": "4:5", "paleta": {"bg": "#0A0E14", "fg": "#FFFFFF", "muted": "#8A93A3", "accent": "#22D3EE", "surface": "#141B28", "cream": "#F3F7FB"}, "handle": "@leadimob.ai", "slides": [{"tipo": "capa", "kicker": "MÉTODO · SALVE ESTE POST", "titulo": "O lead preencheu. Alguém respondeu?", "sub": "5 checagens para ver onde a sua captação de leads trava."}, {"tipo": "conteudo", "kicker": "O PROBLEMA", "titulo": "O lead preencheu. E parou na planilha.", "sub": "Ninguém foi avisado. Ninguém escreveu."}, {"tipo": "conteudo", "kicker": "O TESTE", "titulo": "Preencha o seu próprio formulário.", "sub": "Depois, siga as 5 checagens."}, {"tipo": "conteudo", "kicker": "CHECAGEM 1 · ENTRADA", "titulo": "O lead chega a alguém na hora?", "sub": "Formulário enviado vira aviso, não arquivo para baixar depois."}, {"tipo": "conteudo", "kicker": "CHECAGEM 2 · PRIMEIRA MENSAGEM", "titulo": "A primeira mensagem vai pelo WhatsApp e cita o anúncio?", "sub": "O cliente precisa reconhecer o imóvel."}, {"tipo": "conteudo", "kicker": "CHECAGEM 3 · FORA DO HORÁRIO", "titulo": "Alguém responde às 22h?", "sub": "O formulário chega quando o cliente tem tempo: à noite, no fim de semana."}, {"tipo": "conteudo", "kicker": "CHECAGEM 4 · QUALIFICAÇÃO", "titulo": "Pergunta antes de mandar imóvel?", "sub": "As respostas dizem o que vale enviar."}, {"tipo": "conteudo", "kicker": "DONO E PRÓXIMO PASSO", "titulo": "Cada lead tem dono e próximo passo?", "sub": "Sem isso, ele volta para a planilha."}, {"tipo": "conteudo", "kicker": "ONDE A LEADIMOB ENTRA", "titulo": "Formulário enviado. Conversa iniciada.", "sub": "A Leadimob puxa a conversa no seu WhatsApp na hora, 24h, citando o anúncio."}, {"tipo": "cta", "kicker": "SUA VEZ", "titulo": "Onde a sua captação de leads trava?", "sub": "Comente CHECAGEM e conte qual delas falha hoje na sua imobiliária."}]}</script>
+<script id="deck-data" type="application/json">{"kit": "tech", "formato": "4:5", "paleta": {"bg": "#0A0E14", "fg": "#FFFFFF", "muted": "#8A93A3", "accent": "#22D3EE", "surface": "#141B28", "cream": "#F3F7FB"}, "handle": "@leadimob.ai", "slides": [{"tipo": "capa", "kicker": "TESTE · SALVE ESTE POST", "titulo": "O lead preencheu. Alguém respondeu?", "sub": "5 checagens para ver onde o lead do formulário trava."}, {"tipo": "conteudo", "kicker": "O PROBLEMA", "titulo": "O lead preencheu. E parou na planilha.", "sub": "Ninguém foi avisado. Ninguém escreveu."}, {"tipo": "conteudo", "kicker": "O TESTE", "titulo": "Preencha o seu próprio formulário.", "sub": "Depois, confira as 5 checagens: Aviso · Anúncio · 22h · Perguntas · Dono."}, {"tipo": "conteudo", "kicker": "CHECAGEM 1 · AVISO", "titulo": "O lead chega a alguém na hora?", "sub": "Formulário enviado vira aviso no celular, não planilha para baixar depois."}, {"tipo": "conteudo", "kicker": "CHECAGEM 2 · ANÚNCIO", "titulo": "A primeira mensagem cita o anúncio?", "sub": "O cliente precisa reconhecer o imóvel."}, {"tipo": "conteudo", "kicker": "CHECAGEM 3 · HORÁRIO", "titulo": "Alguém responde às 22h?", "sub": "O formulário chega quando o cliente tem tempo: à noite, no fim de semana."}, {"tipo": "conteudo", "kicker": "CHECAGEM 4 · PERGUNTAS", "titulo": "Alguém pergunta antes de mandar imóveis?", "sub": "As respostas dizem o que vale enviar."}, {"tipo": "conteudo", "kicker": "CHECAGEM 5 · DISTRIBUIÇÃO", "titulo": "Cada lead tem dono e próximo passo?", "sub": "Sem isso, ele volta para a planilha."}, {"tipo": "conteudo", "kicker": "ONDE A LEADIMOB ENTRA", "titulo": "Formulário enviado. Conversa iniciada.", "sub": "A Leadimob puxa a conversa no seu WhatsApp na hora, 24h, citando o anúncio."}, {"tipo": "cta", "kicker": "SUA VEZ", "titulo": "Onde o lead do formulário trava?", "sub": "Comente CHECAGEM e conte qual checagem falha hoje na sua imobiliária."}]}</script>
 <script>
 const KITS = {
   "editorial":     {disp:"Anton", body:"Inter", mono:"JetBrains Mono", serif:"Instrument Serif",
